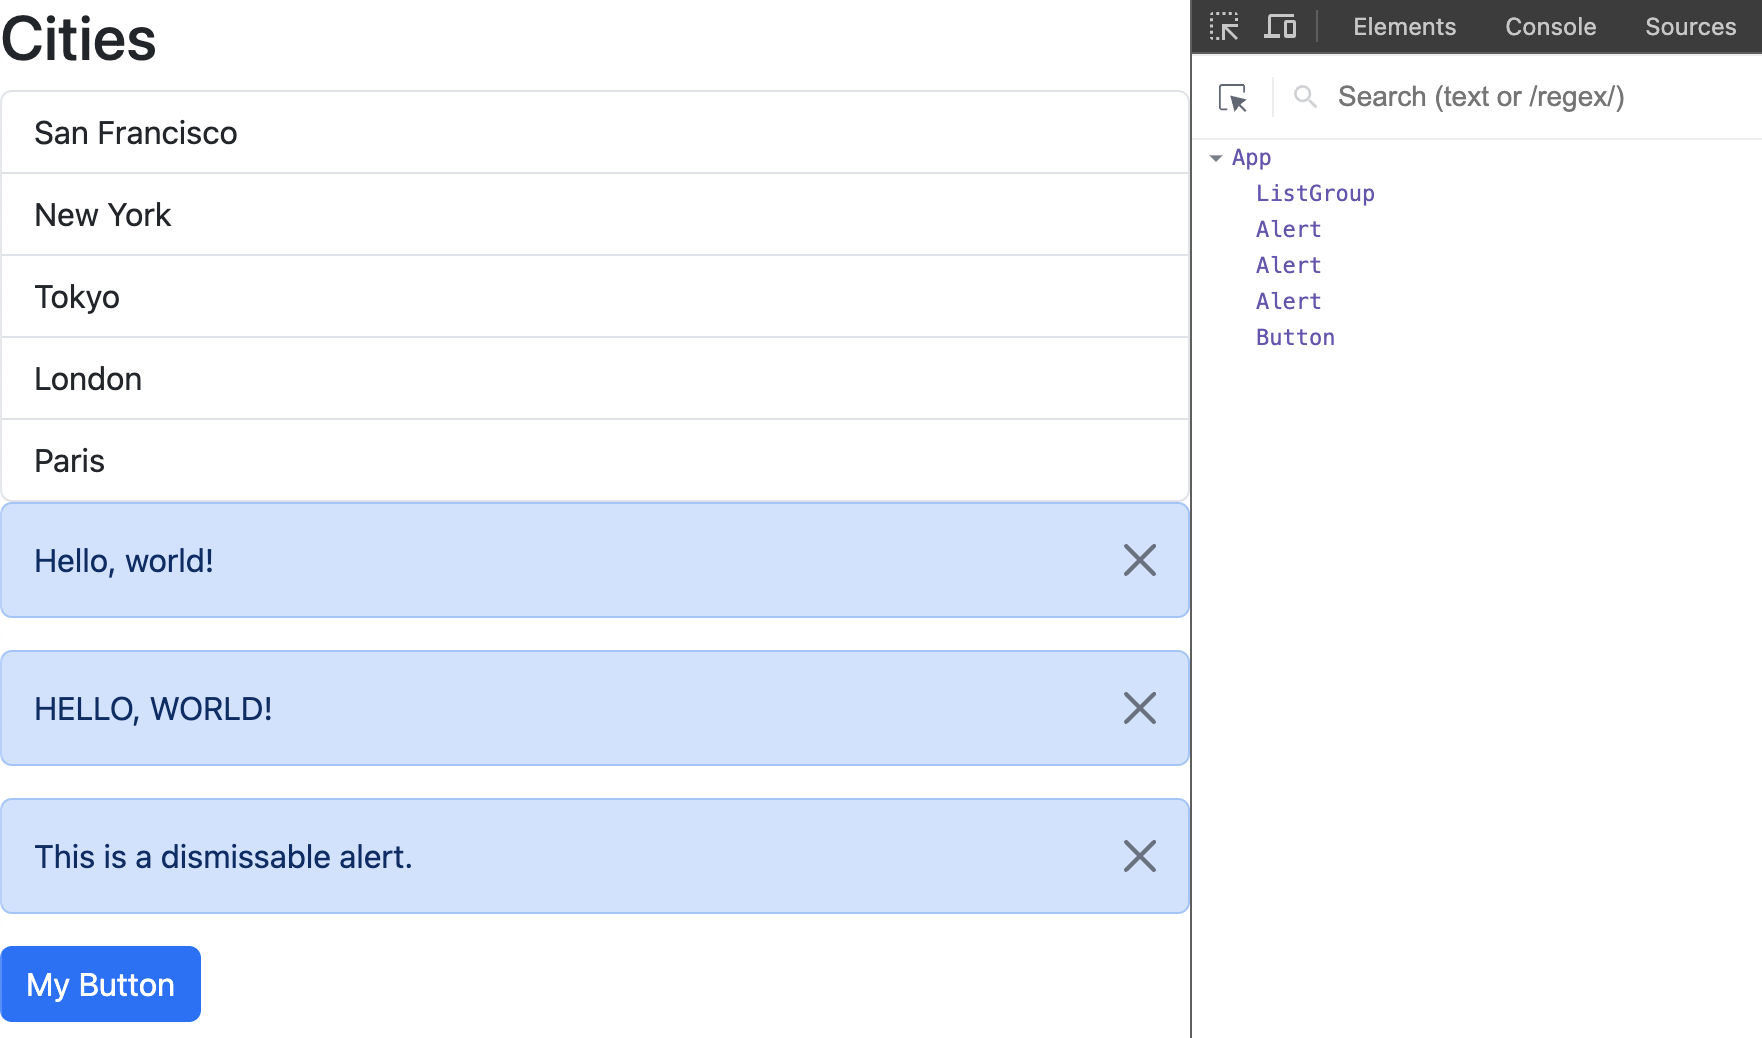
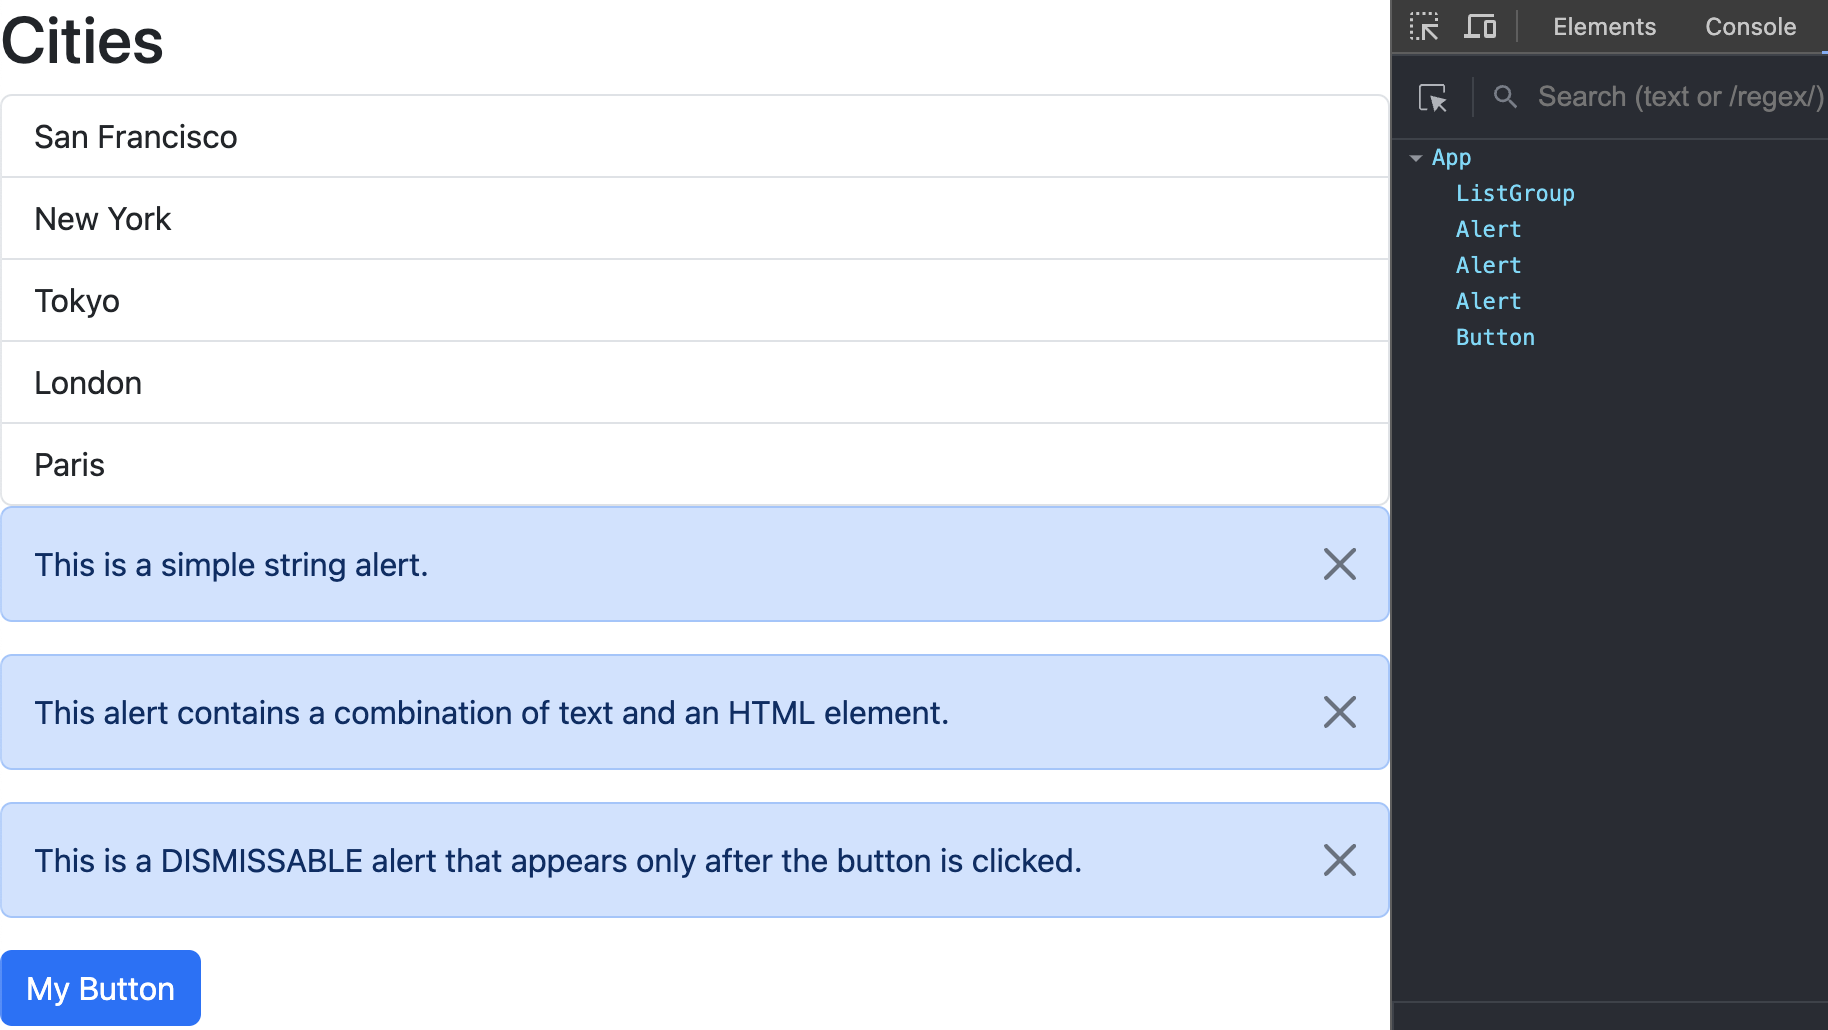
update alert component text to be self-explanatory

diff --git a/src/App.tsx b/src/App.tsx
@@ -27,15 +27,17 @@ function App() {
       />
 
       {/* <Alert text="👋 Hello, world!" /> */}
-      <Alert>Hello, world!</Alert>
+      <Alert>This is a simple string alert.</Alert>
       <Alert>
-        HELLO, <span>WORLD!</span>
+        This alert contains a combination of text and an{" "}
+        <span>HTML element.</span>
       </Alert>
 
       {/* Show a dismissable alert only after the button is clicked (sets alertVisible to true): */}
       {alertVisible && (
         <Alert onClose={() => setAlertVisibility(false)}>
-          This is a dismissable alert.
+          This is a DISMISSABLE alert that appears only after the button is
+          clicked.
         </Alert>
       )}
       <Button color="primary" onClick={() => setAlertVisibility(true)}>
